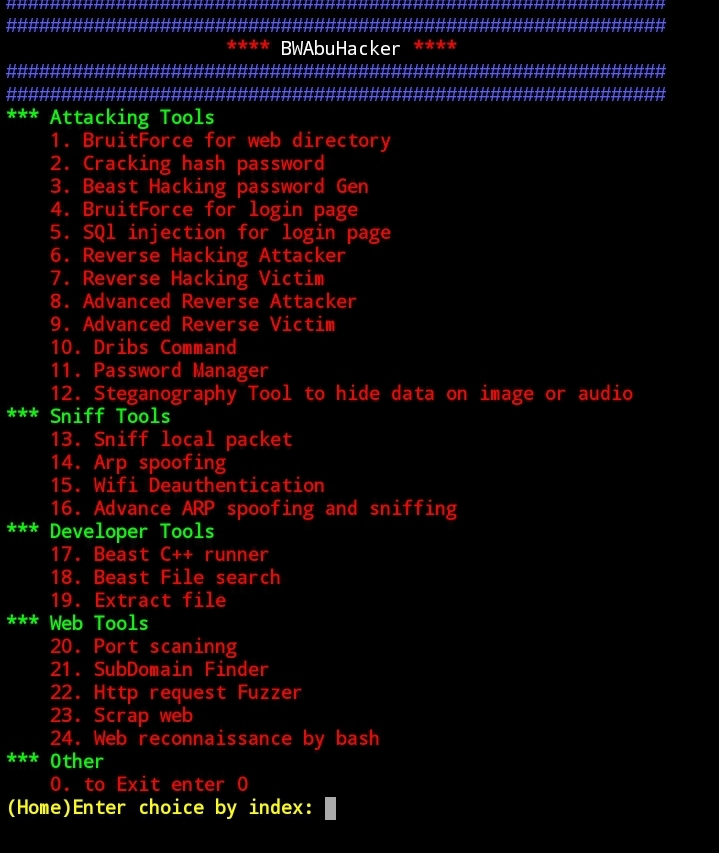
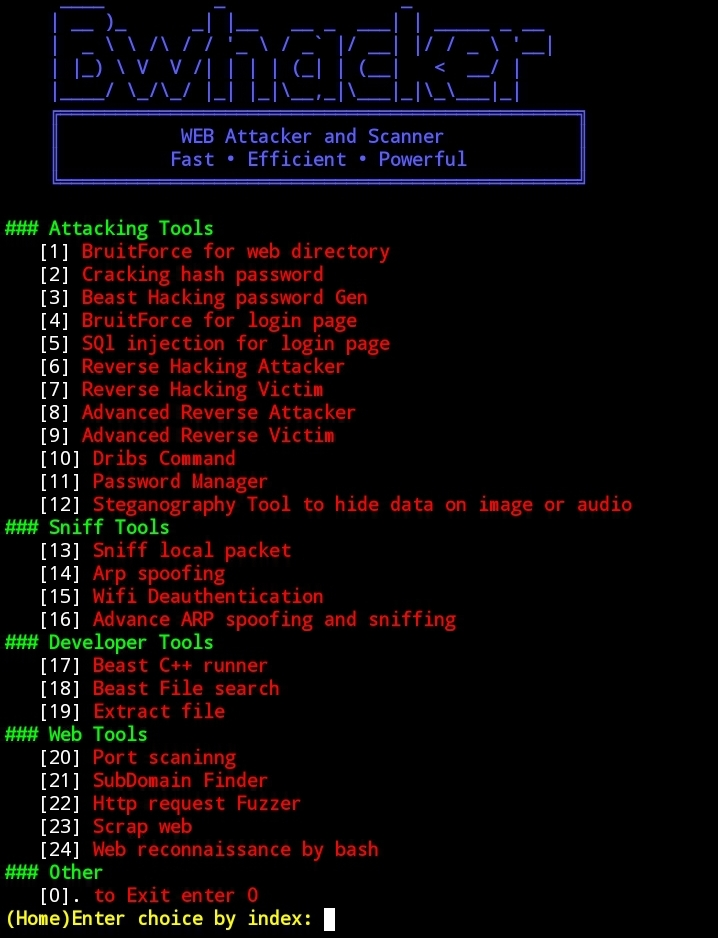
Updated some bug errors

Changed region(s): [[0.0, 0.0, 0.9499, 1.0]]

diff --git a/Hacker/Banner.py b/Hacker/Banner.py
@@ -16,6 +16,7 @@ from Attacking.P16PasswordManager import PasswordManagers
 from Attacking.P18Steganography import SryphtoSecretData
 from Attacking.P19AdvReverseAt import ReverseAttacker as AdvReverseAttacker
 from Attacking.P19AdvReverseVi import ReverseV
+from Attacking.P20PhishingStimulation import PhishingAttack
 from dribs import dribsAttack
 from DeveloperOptions.Tree import TreeSearch
 from DeveloperOptions.CppRunner import CppDev
@@ -26,9 +27,7 @@ from Attacking.P7ArpSpoofing import ArpSpoof
 from Attacking.P12WifiDeauth import WifiDeauth
 from Attacking.P17AdvancedArpSpoofing import ArpSpoofAndSnoffing
 
-if os.geteuid() != 0:
-    print("This script requires root privileges to use scapy.")
-    sys.exit(1)
+
 
 def webRecon():
     try:
@@ -45,7 +44,7 @@ def webRecon():
 
 tool_sections = [
     {
-        "header": "*** Attacking Tools",
+        "header": "### Attacking Tools",
         "choices": [
             ("BruitForce for web directory", BruiteForceDir),
             ("Cracking hash password", HashPassC),
@@ -57,12 +56,13 @@ tool_sections = [
             ("Advanced Reverse Attacker", AdvReverseAttacker),
             ("Advanced Reverse Victim", ReverseV),
             ("Dribs Command", dribsAttack),
+            ("Phshing Attack ", PhishingAttack)
             ("Password Manager", PasswordManagers),
             ("Steganography Tool to hide data on image or audio", SryphtoSecretData),
         ]
     },
     {
-        "header": "*** Sniff Tools",
+        "header": "### Sniff Tools",
         "choices": [
             ("Sniff local packet", ""),
             ("Arp spoofing", "ArpSpoof"),
@@ -71,7 +71,7 @@ tool_sections = [
         ]
     },
     {
-        "header": "*** Developer Tools",
+        "header": "### Developer Tools",
         "choices": [
             ("Beast C++ runner", CppDev),
             ("Beast File search", TreeSearch),
@@ -79,7 +79,7 @@ tool_sections = [
         ]
     },
     {
-        "header": "*** Web Tools",
+        "header": "### Web Tools",
         "choices": [
             ("Port scaninng", PortScan),
             ("SubDomain Finder", SubDomain),
@@ -89,8 +89,9 @@ tool_sections = [
         ]
     },
     {
-        "header": "*** Other",
+        "header": "### Other",
         "choices": [
+            ("Show banner ",banner)
             ("to Exit enter 0", None)
         ]
     }
@@ -98,21 +99,26 @@ tool_sections = [
 
 def banner():
     os.system("clear")
-    border = AbuAll("#" * 60, bg="blue")
-    inb = AbuAll("*" *4,bg="red",sty="b")
-    print(border)
-    print(border)
-    print(AbuAll(f"{' '*20}{inb} BWAbuHacker {inb}{' '*20}", bg="blue", sty="b"))
-    print(border)
-    print(border)
-    idx = 1
+    b = r"""
+     ____          _                _
+    | __ )_      _| |__   __ _  ___| | _____ _ __
+    |  _ \ \ /\ / / '_ \ / _` |/ __| |/ / _ \ '__|
+    | |_) \ V  V /| | | | (_| | (__|   <  __/ |
+    |____/ \_/\_/ |_| |_|\__,_|\___|_|\_\___|_|
+    ╔═══════════════════════════════════════════════╗
+    ║           WEB Attacker and Scanner            ║
+    ║          Fast • Efficient • Powerful          ║
+    ╚═══════════════════════════════════════════════╝
+    """
+    print(AbuAll(f"{b}",bg="blue", sty="b"))
+    idx=1
     for section in tool_sections:
         print(AbuAll(section["header"], bg="green", sty="b"))
         for label, _ in section["choices"]:
             if label.lower().startswith("to exit"):
-                print(AbuAll(f"    0. {label}", bg="red", sty="b"))
+                print(f"   [0].",AbuAll(f"{label}", bg="red", sty="b"))
             else:
-                print(AbuAll(f"    {idx}. {label}", bg="red", sty="b"))
+                print(f"   [{idx}]",AbuAll(f"{label}", bg="red", sty="b"))
                 idx += 1
 
 def get_choice_function(choice_index):

diff --git a/Hacker/Attacking/P20PhishingStimulation.py b/Hacker/Attacking/P20PhishingStimulation.py
@@ -181,10 +181,7 @@ def beast_handler(*args):
             handle_post(self.path, self)
     Handler(*args)
 
-def main():
+def PhishingAttack():
     print(f"Phishing simulation server running at http://localhost:{PORT}/")
     with socketserver.TCPServer(("", PORT), beast_handler) as httpd:
         httpd.serve_forever()
-
-if __name__ == "__main__":
-    main()
